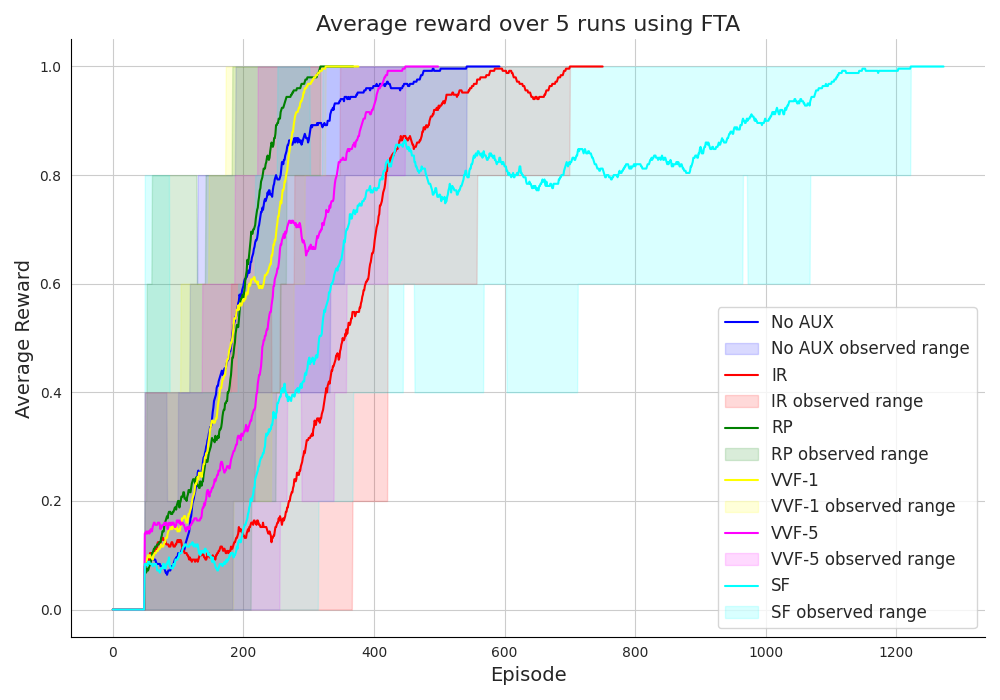
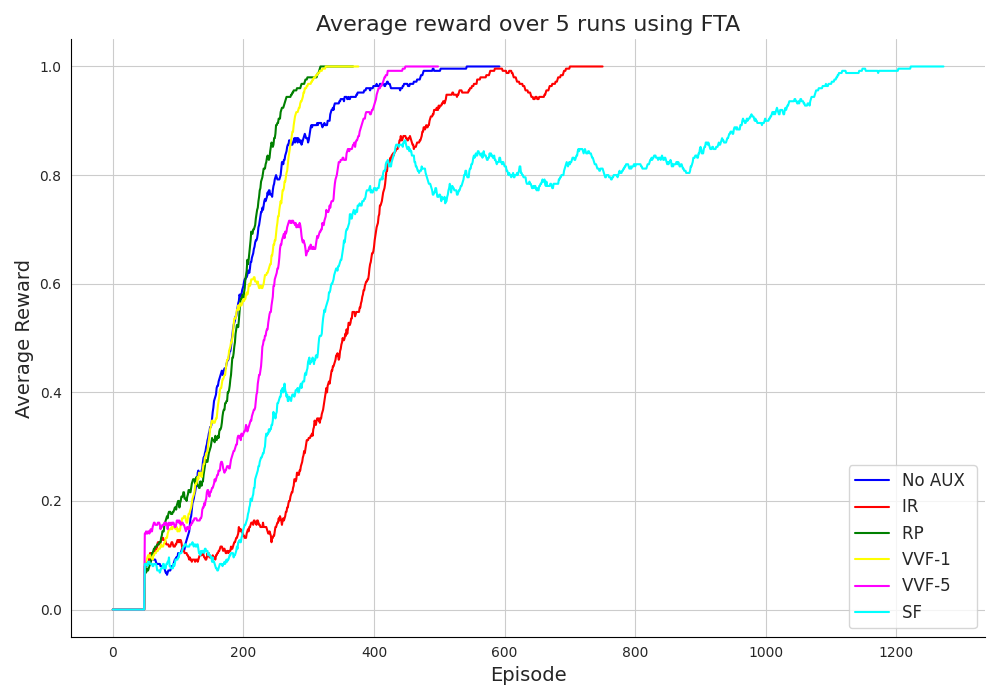
edit figures

diff --git a/plot_rewards.py b/plot_rewards.py
@@ -11,14 +11,19 @@ sns.set_style("whitegrid", {'axes.grid' : True,
 fig = plt.figure(figsize=(10, 7))
 
 MAX_RANGE=4000
-SAVE_NAME='figures/task1_transfer.png'
+SAVE_NAME='figures/train_relu.png'
 PLOT_REGION=False
-TITLE='Average reward over 5 runs transfer task1'
-COLORS=2
-PATH1='.transfer_rewards/task1'
-PATH2='.rewards/task1'
+TITLE='Average reward over 5 runs using FTA'
+COLORS=1
+PATH1='.rewards/train/relu'
+PATH2=''
 
-aux_paths = [PATH1+'/', PATH2+'/']
+if PATH2 != '':
+    aux_paths = [PATH1+'/', PATH2+'/']
+else:
+    aux_paths = [PATH1+'/']
+
+
 labels = ['', 'Scratch']
 
 plt.clf()
